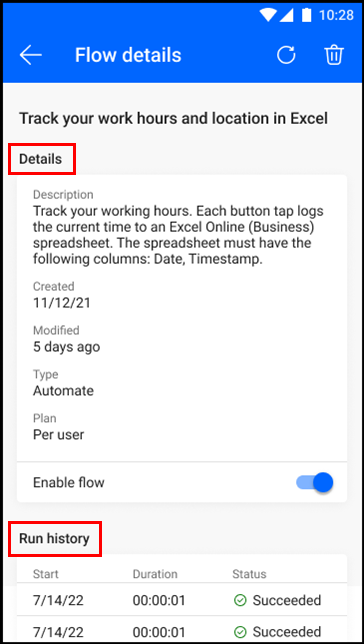
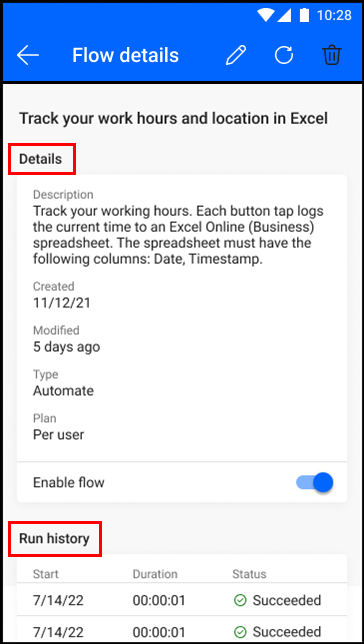
edit-camera

Changed region(s): [[0.0, 0.0621, 0.9973, 0.1553], [0.6951, 0.0, 0.967, 0.0311], [0.6346, 0.0621, 0.6951, 0.0932]]

diff --git a/articles/mobile/manage-cloud-flows.md b/articles/mobile/manage-cloud-flows.md
@@ -4,7 +4,10 @@ description: Learn how to manage your cloud flows in the Microsoft Power Automat
 services: ''
 suite: flow
 documentationcenter: na
-author: v-aangie
+author: natalie-pienkowska
+contributors:
+  - natalie-pienkowska
+  - v-aangie
 editor: ''
 tags: ''
 ms.devlang: na
@@ -12,8 +15,9 @@ ms.subservice: cloud-flow
 ms.topic: conceptual
 ms.tgt_pltfrm: na
 ms.workload: na
-ms.date: 09/19/2022
-ms.author: kewaiss
+ms.date: 11/30/2022
+ms.author: napienko
+ms.reviewer: angieandrews
 search.app: 
   - Flow
 search.audienceType: 
@@ -37,9 +41,23 @@ You can manage your flows when you're away from your computer whether they're so
 
 By default, the **Flows** screen shows all the flows that you've created.
 
-:::image type="content" source="../media/android/instant-flows.png" alt-text="Screenshot of a list of flows in the Power Automate mobile app for Android.":::
+:::image type="content" source="../media/android/instant-flows.png" alt-text="Screenshot of a list of flows.":::
 
 To show flows that others have shared with you, select **Shared with me** at the top of the **Flows** screen.
+
+## Edit a cloud flow
+
+You can edit your cloud flows on-the-go. Your available cloud flows are in one of the lists in the **Flows** screen, as shown in the previous screenshot.
+
+To edit a cloud flow:
+
+1. On the **Flows** screen, select the flow that you want to edit.
+
+    The **Flow details** screen displays.
+
+1. Select the pencil icon at the top of the screen.
+
+    :::image type="content" source="../media/android/flow-details-edit.png" alt-text="Screenshot of the pencil icon in the Flow details screen.":::
 
 ## Run, delete, and turn a flow on or off
 
@@ -47,7 +65,7 @@ Select the vertical ellipsis (**...**) next to a flow, and then select one of th
 
 You can also turn a flow on and off in the [**Details** screen](#view-run-history-and-details).
 
-:::image type="content" source="../media/android/flows-menu.png" alt-text="Screenshot of flow options in the Power Automate mobile app for Android.":::
+:::image type="content" source="../media/android/flows-menu.png" alt-text="Screenshot of flow options.":::
 
 ## View run history and details
 
@@ -57,6 +75,6 @@ In addition to the flow's run history, you can view a description of the flow if
 
 You can also toggle **Enable** here to turn the flow on or off.
 
-:::image type="content" source="../media/android/flow-details.png" alt-text="Screenshot of flow details and run history in the Power Automate mobile app for Android.":::
+:::image type="content" source="../media/android/flow-details.png" alt-text="Screenshot of flow details and run history.":::
 
 [!INCLUDE[footer-include](../includes/footer-banner.md)]

diff --git a/articles/mobile/notifications.md b/articles/mobile/notifications.md
@@ -4,17 +4,20 @@ description: Learn how to receive notifications in the Microsoft Power Automate 
 services: ''
 suite: flow
 documentationcenter: na
-author: v-aangie
-manager: tapanm
+author: natalie-pienkowska
+contributors:
+  - natalie-pienkowska
+  - v-aangie
 editor: ''
 tags: ''
 ms.devlang: na
 ms.subservice: cloud-flow
-ms.topic: article
+ms.topic: conceptual
 ms.tgt_pltfrm: na
 ms.workload: na
-ms.date: 09/19/2022
-ms.author: kewaiss
+ms.date: 11/30/2022
+ms.author: napienko
+ms.reviewer: angieandrews
 search.app: 
   - Flow
 search.audienceType: 
@@ -30,13 +33,13 @@ The list of notifications you've received was previously called Activity Feed.
 
 To view all notifications that correspond to your flows, select the bell icon at the top of the screen.
 
-:::image type="content" source="../media/android/notifications-1.png" alt-text="Screenshot of part of the Power Automate mobile app for Android screen, with the notification bell icon highlighted.":::
+:::image type="content" source="../media/android/notifications-1.png" alt-text="Screenshot of part of the Power Automate mobile app screen with the notification bell icon highlighted.":::
 
 Notifications that arrived since the last time you opened the app appear in the **New** list. Other notifications appear in the **Older** list.
 
 A timestamp indicates how long ago the notification arrived. For instance, **5 m** means the notification arrived five minutes ago. Notifications are removed from the **Older** list after 14 days.
 
-:::image type="content" source="../media/android/notifications.png" alt-text="Screenshot of notifications in the Power Automate mobile app for Android.":::
+:::image type="content" source="../media/android/notifications.png" alt-text="Screenshot of notifications in the Power Automate mobile app.":::
 
 The **Notifications** screen shows notifications from the current environment only. To view notifications from a different environment, [select the environment](overview-mobile.md#change-environments).
 

diff --git a/articles/mobile/run-instant-flows.md b/articles/mobile/run-instant-flows.md
@@ -4,7 +4,10 @@ description: Learn how to run an instant flow in the Microsoft Power Automate mo
 services: ''
 suite: flow
 documentationcenter: na
-author: v-aangie
+author: natalie-pienkowska
+contributors:
+  - natalie-pienkowska
+  - v-aangie
 editor: ''
 tags: ''
 ms.devlang: na
@@ -12,8 +15,9 @@ ms.subservice: cloud-flow
 ms.topic: conceptual
 ms.tgt_pltfrm: na
 ms.workload: na
-ms.date: 09/19/2022
-ms.author: kewaiss
+ms.date: 11/30/2022
+ms.author: napienko
+ms.reviewer: angieandrews
 search.app: 
   - Flow
 search.audienceType: 
@@ -27,15 +31,15 @@ search.audienceType:
 
 1. In the Power Automate mobile app for Android, select **Instant flows**, and then select the flow you want to run.
 
-    :::image type="content" source="../media/android/instant-flows-1.png" alt-text="Screenshot of a list of instant flows in the Power Automate mobile app for Android.":::
+    :::image type="content" source="../media/android/instant-flows-1.png" alt-text="Screenshot of a list of instant flows.":::
 
 1. Fill in any information the flow requires, and then select **Run flow**.
 
-    :::image type="content" source="../media/android/run-flow.png" alt-text="Screenshot of an instant flow in the Power Automate mobile app for Android.":::
+    :::image type="content" source="../media/android/run-flow.png" alt-text="Screenshot of an instant flow.":::
 
 When the **Flow ran successfully** message appears at the top of the **Instant flows** screen, your flow is complete:
 
-:::image type="content" source="../media/android/run-flow-message.png" alt-text="Screenshot of the Flow ran successfully message in the Power Automate mobile app for Android instant flows screen.":::
+:::image type="content" source="../media/android/run-flow-message.png" alt-text="Screenshot of the Flow ran successfully message on the Instant flows screen.":::
 
 > {!NOTE}
 >

diff --git a/articles/mobile/manage-approvals.md b/articles/mobile/manage-approvals.md
@@ -4,17 +4,20 @@ description: Learn how to view, approve, and reject requests in the Microsoft Po
 services: ''
 suite: flow
 documentationcenter: na
-author: v-aangie
-manager: tapanm
+author: natalie-pienkowska
+contributors:
+  - natalie-pienkowska
+  - v-aangie
 editor: ''
 tags: ''
 ms.devlang: na
 ms.subservice: cloud-flow
-ms.topic: article
+ms.topic: conceptual
 ms.tgt_pltfrm: na
 ms.workload: na
-ms.date: 09/19/2022
-ms.author: kewaiss
+ms.date: 11/30/2022
+ms.author: napienko
+ms.reviewer: angieandrews
 search.app: 
   - Flow
 search.audienceType: 
@@ -32,13 +35,13 @@ You can quickly approve or reject approval requests in the Power Automate mobile
 
 1. Select **Approve** or **Reject**.
 
-    :::image type="content" source="../media/android/manage-approvals-1.png" alt-text="Screenshot of approval requests in the Power Automate mobile app for Android, with Approve and Reject buttons for one request shown.":::
+    :::image type="content" source="../media/android/manage-approvals-1.png" alt-text="Screenshot of approval requests with Approve and Reject buttons for one request shown.":::
 
 If you want more information about a request before you approve or reject it, you can view any comments and attachments on a separate screen.
 
 1. On the **Approvals** screen, select the vertical ellipsis (**…**) next to a request, and then select **Details**.
 
-    :::image type="content" source="../media/android/approvals-menu.png" alt-text="Screenshot of the Details option on the Approvals screen in the Power Automate mobile app for Android.":::
+    :::image type="content" source="../media/android/approvals-menu.png" alt-text="Screenshot of the Details option on the Approvals screen.":::
 
 1. Read the comments and view the attachments, if any.
 

diff --git a/articles/mobile/overview-mobile.md b/articles/mobile/overview-mobile.md
@@ -4,7 +4,10 @@ description: This article provides an overview of the Microsoft Power Automate m
 services: ''
 suite: flow
 documentationcenter: na
-author: v-aangie
+author: natalie-pienkowska
+contributors:
+  - natalie-pienkowska
+  - v-aangie
 editor: ''
 tags: ''
 ms.devlang: na
@@ -12,8 +15,9 @@ ms.subservice: cloud-flow
 ms.topic: overview
 ms.tgt_pltfrm: na
 ms.workload: na
-ms.date: 11/28/2022
-ms.author: kewaiss
+ms.date: 11/30/2022
+ms.author: napienko
+ms.reviewer: angieandrews
 search.app: 
   - Flow
 search.audienceType: 
@@ -53,7 +57,7 @@ You might have different environments to work in depending on the purpose of you
 
 1. Select the environment icon, and then select the environment you want to access. A check mark appears next to the selected environment.
 
-    :::image type="content" source="../media/android/environment.png" alt-text="Screenshot of an environment selected in the Power Automate mobile app, with the environment icon highlighted.":::
+    :::image type="content" source="../media/android/environment.png" alt-text="Screenshot of an environment selected with the environment icon highlighted.":::
 
 ## Limitations
 

diff --git a/articles/mobile/widgets.md b/articles/mobile/widgets.md
@@ -4,17 +4,20 @@ description: Learn how to create a widget in the Microsoft Power Automate mobile
 services: ''
 suite: flow
 documentationcenter: na
-author: v-aangie
-manager: tapanm
+author: natalie-pienkowska
+contributors:
+  - natalie-pienkowska
+  - v-aangie
 editor: ''
 tags: ''
 ms.devlang: na
 ms.subservice: cloud-flow
-ms.topic: article
+ms.topic: conceptual
 ms.tgt_pltfrm: na
 ms.workload: na
-ms.date: 09/19/2022
-ms.author: kewaiss
+ms.date: 11/30/2022
+ms.author: napienko
+ms.reviewer: angieandrews
 search.app: 
   - Flow
 search.audienceType: 
@@ -40,6 +43,6 @@ Widgets can only run instant flows that you created. They can't run other kinds 
 
 1. Select the flow to run when you tap the widget on your home screen.
 
-    :::image type="content" source="../media/android/widget-run.png" alt-text="Screenshot of an instant flow widget placed on an Android device home screen.":::
+    :::image type="content" source="../media/android/widget-run.png" alt-text="Screenshot of an instant flow widget placed on a device's home screen.":::
 
 [!INCLUDE[footer-include](../includes/footer-banner.md)]
